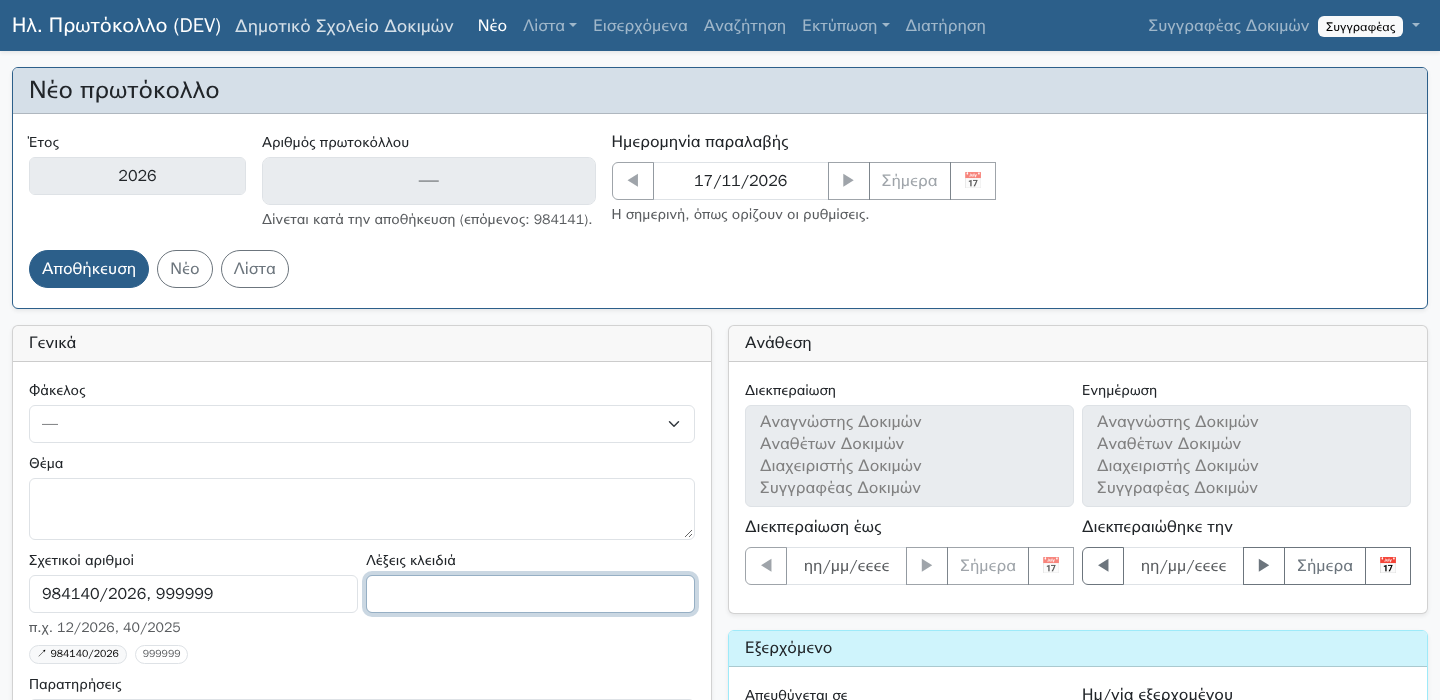
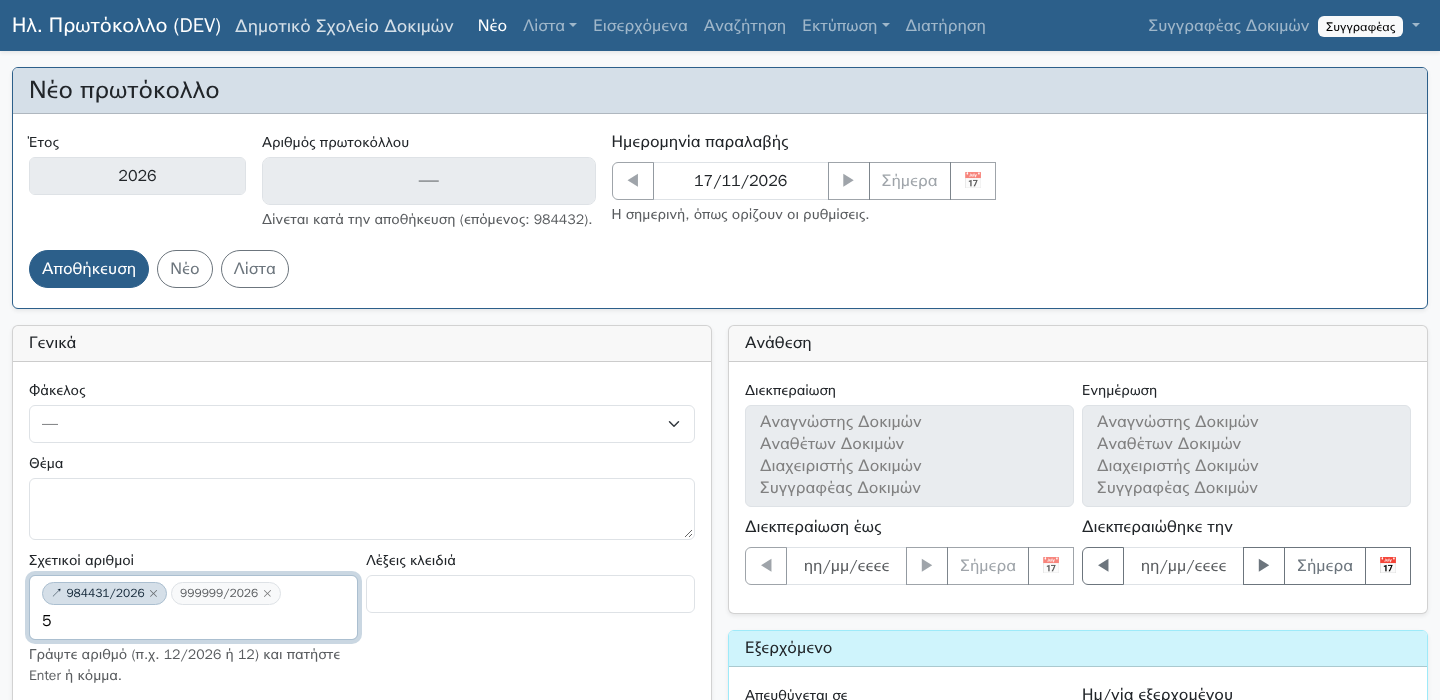
R1e: related numbers as tags (Enter or comma makes a pill)
Owner's suggestion: typed numbers become pills; existing protocols are
link pills (new tab), others grey; x or Backspace removes one. The
stored value stays the same comma-separated text.

Changed region(s): [[0.0, 0.81, 0.5, 1.0], [0.375, 0.3, 0.4062, 0.33]]

diff --git a/e2e/tests/protocol-form.spec.js b/e2e/tests/protocol-form.spec.js
@@ -89,7 +89,7 @@ test('a 2 MB attachment is uploaded and saved (R1b: nginx allowed only 1 MB)', a
   await evidence(page, 'r1b-attachment-saved', { fullPage: true });
 });
 
-test('related numbers open the protocol in a new tab (R1e)', async ({ page }) => {
+test('related numbers are tags; an existing one opens in a new tab (R1e)', async ({ page }) => {
   await login(page, 'writer');
   await page.goto('/home');
   await fillProtocol(page, { thema: `R1e σχετικό ${Date.now()}`, fakelos: 'first' });
@@ -98,14 +98,23 @@ test('related numbers open the protocol in a new tab (R1e)', async ({ page }) =>
   const [, num, year] = (await notice(page)).match(/Καταχωρίστηκε με αριθμό (\d+)\/(\d{4})/);
 
   await page.goto('/home');
-  await page.locator('#f-sxetiko').fill(`${num}/${year}, 999999`);
-  await page.locator('#f-sxetiko').press('Tab');
-  const link = page.locator('#related-links a');
+  const box = page.locator('#f-sxetiko');
+  await box.fill(`${num}/${year}`);
+  await box.press('Enter');                                   // Enter makes a pill (and does not save)
+  const link = page.locator('#related-box a');
   await expect(link).toHaveText(`↗ ${num}/${year}`);
   await expect(link).toHaveAttribute('href', first);
   await expect(link).toHaveAttribute('target', '_blank');
-  await expect(page.locator('#related-links')).toContainText('999999');
+  await expect(page).toHaveURL(/\/home$/);
+  await box.pressSequentially('999999,');                     // a comma too; unknown number = grey pill
+  await expect(page.locator('#related-box .related-pill')).toHaveCount(2);
+  await expect(page.locator('#related-box .related-pill').last()).toContainText(`999999/${year}`);
+  await expect(box).toHaveValue('');
+  await box.pressSequentially('5');
   await evidence(page, 'r1e-related-links', { clip: { x: 0, y: 0, width: 1440, height: 700 } });
+  await box.press('Backspace');
+  await box.press('Backspace');                               // empty box: removes the last pill
+  await expect(page.locator('#related-box .related-pill')).toHaveCount(1);
   const [tab] = await Promise.all([page.context().waitForEvent('page'), link.click()]);
   await tab.waitForLoadState();
   expect(tab.url()).toBe(first);

diff --git a/resources/modern/app.scss b/resources/modern/app.scss
@@ -24,6 +24,8 @@ $font-family-sans-serif: system-ui, -apple-system, "Segoe UI", Roboto, "Noto San
 .border-dashed { border-style: dashed !important; }
 .dropzone { cursor: pointer; transition: background-color .15s, border-color .15s; }
 .dropzone:hover, .dropzone:focus-within { border-color: var(--bs-primary) !important; }
+.tag-box { min-height: calc(1.5em + .75rem + 2px); cursor: text; }
+.tag-box:focus-within { border-color: var(--bs-primary-border-subtle, #86b7fe); box-shadow: 0 0 0 .25rem rgba(var(--bs-primary-rgb), .25); }
 /* not d-flex: its !important would beat x-show's display:none */
 .drop-overlay { display: flex; align-items: center; justify-content: center; background: rgba(var(--bs-primary-rgb), .15); z-index: 2000; pointer-events: none; }
 

diff --git a/resources/views/livewire/protocol-form.blade.php b/resources/views/livewire/protocol-form.blade.php
@@ -132,21 +132,36 @@
                         @endif
                     </x-form.text>
                     <div class="row g-2">
-                        <x-form.text class="col-md-6" name="sxetiko" :value="$form['sxetiko']" live label="Σχετικοί αριθμοί" :error="$e('sxetiko')" help="π.χ. 12/2026, 40/2025">
-                            {{-- R1e: each existing number opens its protocol in a new tab --}}
-                            @if (collect($related)->contains(fn ($r) => $r['protocol']))
-                                <div class="small mt-1" id="related-links">
-                                    @foreach ($related as $r)
+                        {{-- R1e: related numbers as tags. Enter, a comma or leaving the box turns what was typed into a pill
+                             (a bare number gets the year); an existing protocol is a link ↗ (new tab); ✕ or Backspace in the
+                             empty box removes one. The stored value stays "12/2026, 40/2025". --}}
+                        <div class="col-md-6 mb-2">
+                            <label for="f-sxetiko" class="form-label small fw-semibold mb-1">Σχετικοί αριθμοί</label>
+                            <div class="form-control d-flex flex-wrap align-items-center gap-1 tag-box @if ($e('sxetiko')) is-invalid @endif" id="related-box"
+                                 x-on:click="$el.querySelector('input')?.focus()">
+                                @foreach ($related as $i => $r)
+                                    <span class="badge rounded-pill border d-inline-flex align-items-center gap-1 related-pill {{ $r['protocol'] ? 'bg-primary-subtle text-primary-emphasis border-primary-subtle' : 'text-body-secondary bg-body-tertiary' }}"
+                                          wire:key="rel-{{ $i }}-{{ $r['text'] }}"
+                                          title="{{ $r['protocol'] ? $r['protocol']->thema : 'Δεν βρέθηκε πρωτόκολλο που μπορείτε να ανοίξετε' }}">
                                         @if ($r['protocol'])
-                                            <a href="{{ url('/home/'.$r['protocol']->id) }}" target="_blank" class="badge rounded-pill text-bg-light border text-decoration-none me-1"
-                                               title="{{ $r['protocol']->thema }}">↗ {{ $r['protocol']->protocolnum }}/{{ $r['protocol']->etos }}</a>
+                                            <a href="{{ url('/home/'.$r['protocol']->id) }}" target="_blank" class="text-reset text-decoration-none">↗ {{ $r['protocol']->protocolnum }}/{{ $r['protocol']->etos }}</a>
                                         @else
-                                            <span class="badge rounded-pill text-body-secondary border me-1" title="Δεν βρέθηκε πρωτόκολλο που μπορείτε να ανοίξετε">{{ $r['text'] }}</span>
+                                            {{ $r['text'] }}
                                         @endif
-                                    @endforeach
-                                </div>
-                            @endif
-                        </x-form.text>
+                                        <button type="button" class="btn-close" style="font-size: .55em" wire:click="removeRelated({{ $i }})"
+                                                aria-label="Αφαίρεση {{ $r['text'] }}"></button>
+                                    </span>
+                                @endforeach
+                                <input id="f-sxetiko" class="border-0 flex-grow-1 p-0 bg-transparent tag-input" style="min-width: 6rem; outline: none" autocomplete="off"
+                                       placeholder="{{ $related ? '' : 'π.χ. 12/2026' }}" aria-describedby="sxetiko-help"
+                                       x-data="{ add() { const v = $el.value.trim(); $el.value = ''; if (v) $wire.addRelated(v) } }"
+                                       x-on:keydown="if ($event.key === 'Enter' || $event.key === ',' || $event.key === ';') { $event.preventDefault(); add() }
+                                                     else if ($event.key === 'Backspace' && $el.value === '' && {{ count($related) }} > 0) $wire.removeRelated({{ count($related) - 1 }})"
+                                       x-on:input="if (/[,;]/.test($el.value)) add()" x-on:blur="add()">
+                            </div>
+                            @if ($e('sxetiko'))<div class="invalid-feedback d-block">{{ $e('sxetiko') }}</div>@endif
+                            <div class="form-text" id="sxetiko-help">Γράψτε αριθμό (π.χ. 12/2026 ή 12) και πατήστε Enter ή κόμμα.</div>
+                        </div>
                         <x-form.text class="col-md-6" name="keywords" :value="$form['keywords']" label="Λέξεις κλειδιά" list="suggest-keywords" :error="$e('keywords')" />
                     </div>
                     <x-form.text name="paratiriseis" :value="$form['paratiriseis']" label="Παρατηρήσεις" rows="2" :error="$e('paratiriseis')" />

diff --git a/tests/Feature/ProtocolFormTest.php b/tests/Feature/ProtocolFormTest.php
@@ -57,8 +57,8 @@ class ProtocolFormTest extends FeatureTestCase
         $this->assertSame(0, Protocol::count());
     }
 
-    /** R1e: an existing related number opens its protocol in a new tab; others stay text. */
-    public function test_related_numbers_link_to_existing_protocols(): void
+    /** R1e: related numbers are tags; an existing protocol is a link (new tab), others stay text. */
+    public function test_related_numbers_are_tags_linking_to_existing_protocols(): void
     {
         $year = (int) now()->year;
         $mine = Protocol::factory()->number(12)->create(['thema' => 'Σχετικό δώδεκα']);
@@ -66,20 +66,27 @@ class ProtocolFormTest extends FeatureTestCase
         $writer = $this->writer();
 
         $form = Livewire::actingAs($this->admin())->test(ProtocolForm::class)
-            ->set('form.sxetiko', '12, 40/' . ($year - 1) . '; 77 φ.3');
+            ->call('addRelated', '12')                                  // a bare number gets the year
+            ->call('addRelated', '40/' . ($year - 1) . '; 77, φ.3')      // pasted list
+            ->call('addRelated', '12/' . $year)                         // no repeats
+            ->assertSet('form.sxetiko', "12/$year, 40/" . ($year - 1) . ', 77/' . $year . ', φ.3');
         $form->assertSeeHtml('href="' . url('/home/' . $mine->id) . '" target="_blank"')
             ->assertSeeHtml('title="Σχετικό δώδεκα"')
             ->assertSeeHtml('href="' . url('/home/' . $old->id) . '" target="_blank"')
-            ->assertSee('↗ 40/' . ($year - 1));
-        $this->assertStringContainsString('title="Δεν βρέθηκε πρωτόκολλο που μπορείτε να ανοίξετε">77<', $form->html());
-        $this->assertStringContainsString('>φ.3<', $form->html());
+            ->assertSee('↗ 40/' . ($year - 1))
+            ->assertSeeHtml('aria-label="Αφαίρεση 77/' . $year . '"')
+            ->assertSeeHtml('aria-label="Αφαίρεση φ.3"');
+        $this->assertSame(2, substr_count($form->html(), 'title="Δεν βρέθηκε πρωτόκολλο που μπορείτε να ανοίξετε"'));
+
+        $form->call('removeRelated', 1)->assertSet('form.sxetiko', "12/$year, 77/$year, φ.3")
+            ->set('form.thema', 'Με σχετικά')->set('form.fakelos', 'Φ.1')
+            ->call('save')->assertHasNoErrors();
+        $this->assertSame("12/$year, 77/$year, φ.3", Protocol::latest('id')->first()->sxetiko);
 
         // a writer limited to own/assigned protocols gets no link (and no subject) for others' protocols
         $this->setting('limitProtocolAccessList', 1);
-        Livewire::actingAs($writer)->test(ProtocolForm::class)->set('form.sxetiko', '12')
-            ->assertDontSee('id="related-links"', false)->assertDontSee('Σχετικό δώδεκα');
-        $this->actingAs($writer);
-        $this->assertNull(\App\Support\RelatedNumbers::resolve('12', $year)[0]['protocol']);
+        Livewire::actingAs($writer)->test(ProtocolForm::class)->call('addRelated', '12')
+            ->assertDontSeeHtml('href="' . url('/home/' . $mine->id) . '"')->assertDontSee('Σχετικό δώδεκα');
     }
 
     public function test_same_subject_is_a_notice_not_a_question(): void

diff --git a/app/Support/RelatedNumbers.php b/app/Support/RelatedNumbers.php
@@ -10,6 +10,33 @@ use App\Models\Protocol;
  */
 class RelatedNumbers
 {
+    /** @return list<string> the references as typed */
+    public static function tokens(?string $value): array
+    {
+        return preg_split('~[\s,;]+~u', trim((string) $value), -1, PREG_SPLIT_NO_EMPTY);
+    }
+
+    /** Adds what was typed (one or more references) to the field's value; a bare number gets the year, no repeats. */
+    public static function add(?string $value, string $typed, int $year): string
+    {
+        $tokens = self::tokens($value);
+        foreach (self::tokens($typed) as $t) {
+            $t = ctype_digit($t) ? ((int) $t) . '/' . $year : $t;
+            if (! in_array($t, $tokens, true)) {
+                $tokens[] = $t;
+            }
+        }
+        return implode(', ', $tokens);
+    }
+
+    /** The field's value without its reference number $index (0 = first). */
+    public static function remove(?string $value, int $index): string
+    {
+        $tokens = self::tokens($value);
+        unset($tokens[$index]);
+        return implode(', ', $tokens);
+    }
+
     /**
      * Every reference in order; protocol = the existing protocol the user may open, else null.
      *
@@ -18,7 +45,7 @@ class RelatedNumbers
     public static function resolve(?string $value, int $year): array
     {
         $refs = [];
-        foreach (preg_split('~[\s,;]+~u', trim((string) $value), -1, PREG_SPLIT_NO_EMPTY) as $text) {
+        foreach (self::tokens($value) as $text) {
             if (preg_match('~^(\d{1,9})(?:/(\d{4}))?$~', $text, $m)) {
                 $refs[] = ['text' => $text, 'num' => (int) $m[1], 'year' => isset($m[2]) ? (int) $m[2] : $year];
             } else {

diff --git a/app/Livewire/ProtocolForm.php b/app/Livewire/ProtocolForm.php
@@ -132,6 +132,17 @@ class ProtocolForm extends Component
         $this->replacePlaceholder = false;
     }
 
+    /** R1e: "Σχετικοί αριθμοί" as tags — Enter, comma or leaving the box adds what was typed; ✕ removes one. */
+    public function addRelated(string $typed): void
+    {
+        $this->form['sxetiko'] = \App\Support\RelatedNumbers::add($this->form['sxetiko'], $typed, (int) ($this->form['etos'] ?: $this->activeYear()));
+    }
+
+    public function removeRelated(int $index): void
+    {
+        $this->form['sxetiko'] = \App\Support\RelatedNumbers::remove($this->form['sxetiko'], $index);
+    }
+
     public function save(ProtocolWriter $writer)
     {
         $input = $this->form + [

diff --git a/docs/reports/R1e.md b/docs/reports/R1e.md
@@ -26,16 +26,18 @@ The owner tried Batch 6 and reported (2026-11-17):
 - **Notices (toasts), everywhere:** top centre, just under the top bar; a click anywhere on one closes it; optional
   link (`appToast(message, type, {url, label})`, Livewire `dispatch('toast', …, url:, label:)`), same-site addresses
   only, text only as before.
-- **Σχετικοί αριθμοί:** under the field, each reference becomes a small pill. An existing protocol the user may open is
-  a link ↗ (new tab, its subject on hover); a number without such a protocol stays grey text. `12/2026`, a bare `12`
-  (= the protocol's year), separated by commas, semicolons or spaces (`App\Support\RelatedNumbers`). Users limited to
-  their own protocols get no link and no subject for other people's protocols.
+- **Σχετικοί αριθμοί as tags** (owner's idea, 2026-11-17): Enter, a comma (or `;`) or leaving the box turns what was
+  typed into a pill; a bare number gets the protocol's year (`12` → `12/2026`); pasting "12/2026, 40/2025" makes two;
+  no repeats. An existing protocol the user may open is a blue link pill ↗ (new tab, its subject on hover); anything
+  else is a grey pill. ✕ or Backspace in the empty box removes one. The stored value stays the same text
+  ("12/2026, 40/2025"), so search, prints and old entries are unchanged (`App\Support\RelatedNumbers`). Users limited
+  to their own protocols get no link and no subject for other people's protocols.
 - **Trash page:** "Το «…» επέστρεψε στο πρωτόκολλό του." now ends with *Άνοιγμα πρωτοκόλλου N/YYYY*.
 
 ## How verified
 - Full suites: PHPUnit 340, browser 46/46.
-- PHPUnit: `test_related_numbers_link_to_existing_protocols` (links, subject on hover, unknown numbers, a limited writer
-  sees no link or subject); `TrashTest` checks the restore notice's link.
+- PHPUnit: `test_related_numbers_are_tags_linking_to_existing_protocols` (bare number gets the year, pasted list, no
+  repeats, links, subject on hover, unknown numbers, remove, saved text; a limited writer sees no link or subject); `TrashTest` checks the restore notice's link.
 - Browser:
   - `attachments-panel.spec.js`: a **native** file drag (Chromium's DevTools input, as the operating system does it, not
     synthetic events) dropped on the subject field in the middle of the form is attached and nothing is typed into the
@@ -43,7 +45,8 @@ The owner tried Batch 6 and reported (2026-11-17):
     test is Chromium only).
   - `components.spec.js`: the notice is under the top bar and centred, a click closes it, a link to another site is not
     shown.
-  - `protocol-form.spec.js`: the related number opens the protocol in a new tab.
+  - `protocol-form.spec.js`: Enter and a comma make pills (Enter does not save), Backspace in the empty box removes
+    the last one, the link pill opens the protocol in a new tab.
   - `trash.spec.js`: the restore notice's link opens the protocol.
 
   ![related numbers](img/R1e/r1e-related-links.png)
